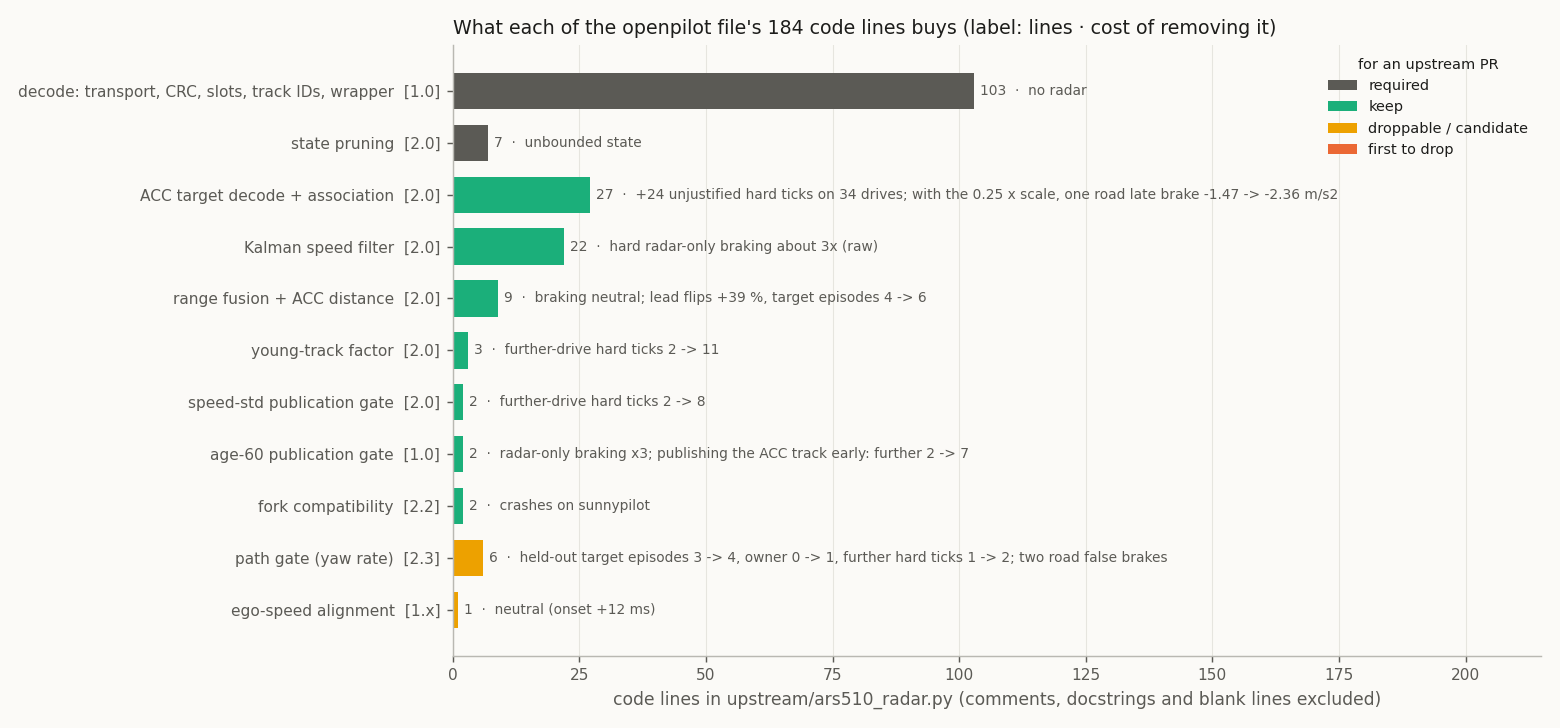
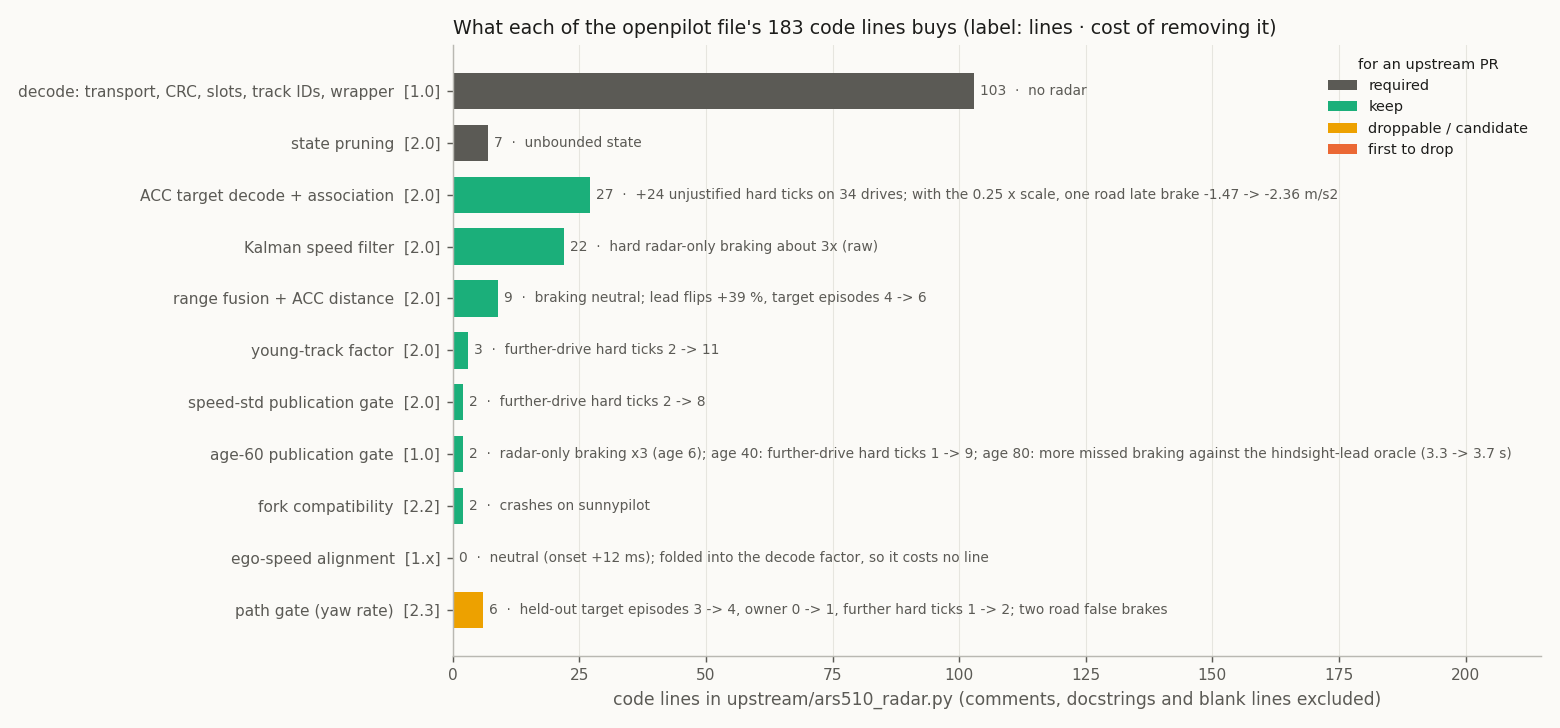
refactor: fold the 0.149/0.15 speed alignment into the decode factor (2.4.1) (#83)
The openpilot file decodes the object list's over-ground speed at 0.149 m/s
per code directly instead of 0.15 x VGROUND_SCALE: one constant and one
code line fewer (184 -> 183), same output up to float rounding (the fork
equality test now compares at 1e-9).

diff --git a/upstream/ars510_radar.py b/upstream/ars510_radar.py
@@ -22,7 +22,6 @@ SPEED_ADDR, YAW_ADDR, OBJECTS_ADDR, ACC_SPEED_ADDR, ACC_POS_ADDR = 0xB4, 0x24, 0
 RECORD_FRAMES, RECORD_LEN, SLOT_START, SLOT_LEN, SLOTS = 106, 742, 17, 36, 20
[1 lines of base64/hex data omitted]
 
-VGROUND_SCALE = 0.149 / 0.15  # slot over-ground speed aligned to 0xB4 ego speed
 EGO_MAX_AGE_S = 0.5
 PUBLISH_AGE = 60  # ~3.6 s: young tracks have unconverged range and speed
 RANGE_GAIN = 0.1  # velocity-aided range: halves the far-range walk
@@ -111,8 +110,9 @@ class Ars510Radar:
         continue
       age, lat = bits(s, 24, 7), bits(s, 44, 12) - 2048
       init_template = age == 1 and bits(s, 56, 7) == 0 and bits(s, 216, 6) == 0
+      # over-ground speed: 0.149 m/s per code against 0xB4 ego speed (DBC factor 0.15)
       objs.append(dict(tid=self.track_id(t, slot, age), age=age, d=(bits(s, 32, 12) - 160) / 16, y=lat * 0.015,
-                       vg=(bits(s, 64, 10) - 510.5) * 0.15 * VGROUND_SCALE, unc=bits(s, 240, 7),
+                       vg=(bits(s, 64, 10) - 510.5) * 0.149, unc=bits(s, 240, 7),
                        valid=age >= 1 and not init_template and abs(lat) < 2000))
     tracks = {o["tid"]: o for o in objs if o["valid"]}
     acc_tid = self.acc_match(t, tracks)

diff --git a/tests/test_upstream_candidate.py b/tests/test_upstream_candidate.py
@@ -76,7 +76,10 @@ def test_candidate_equals_its_fork_config_on_real_samples(candidate, sample):
     assert (a is None) == (b is None)
     if a is not None:
       records += 1
-      assert b == [(p["trackId"], p["dRel"], p["yRel"], p["vRel"]) for p in a["radarData"]["points"]]
+      # equal up to float rounding (the candidate folds the 0.149/0.15 speed alignment into one decode factor)
+      want = [(p["trackId"], p["dRel"], p["yRel"], p["vRel"]) for p in a["radarData"]["points"]]
+      assert [r[0] for r in b] == [r[0] for r in want]
+      assert [x for r in b for x in r[1:]] == pytest.approx([x for r in want for x in r[1:]], abs=1e-9)
   assert records > 300
 
 

diff --git a/docs/10_research_directions.md b/docs/10_research_directions.md
@@ -158,7 +158,7 @@ The closest relative in openpilot is the Tesla Model 3's Continental radar (`tes
 ## Towards an upstream (comma) interface
 
 The integration works on every fork without changing openpilot. For upstream there is a separate, single-file
-candidate: [`upstream/ars510_radar.py`](../upstream/ars510_radar.py) (224 lines, 184 of them code). It holds the reassembler, the slot
+candidate: [`upstream/ars510_radar.py`](../upstream/ars510_radar.py) (223 lines, 183 of them code). It holds the reassembler, the slot
 decode, track IDs, the ACC target association and the Kalman speed filter, in opendbc's style. Up to 2.1 it was the
 smallest version with the same driving as the full filter: parts were removed alone and together on 34 replay drives,
 and every hard brake was checked against the radar's raw range, the camera and the driver
@@ -200,7 +200,7 @@ upstream PR.
 | speed-std publication gate | 2 | 2.0 | further-drive hard ticks 2 -> 8 | keep |
 | age-60 publication gate | 2 | 1.0 | radar-only braking x3 (age 6); age 40: further-drive hard ticks 1 -> 9; age 80: more missed braking against the hindsight-lead oracle (3.3 -> 3.7 s) | keep |
 | range fusion (incl. ACC distance as the followed car's range) | 9 | 2.0 (ACC distance 2.1) | braking neutral; lead flips +39 %, target episodes 4 -> 6 | keep for lead stability; droppable at that cost |
-| ego-speed alignment x 0.149/0.15 | 1 | 1.x | neutral (onset +12 ms) | droppable |
+| ego-speed alignment (0.149 m/s per code instead of the DBC 0.15) | 0 | 1.x | neutral (onset +12 ms); folded into the decode factor, so it costs no line | keep (no line) |
 | state pruning | 7 | 2.0 | unbounded state | required |
 | path gate (yaw rate) | 6 | 2.3 (2.2 from 60 m) | held-out target episodes 3 -> 4, owner 0 -> 1, further hard ticks 1 -> 2; two road false brakes | candidate: keep, or move into radard as a lateral gate |
 | fork compatibility (CP_SP argument, points assigned as a list) | 2 | 2.2 | crashes on sunnypilot | keep (harmless upstream) |

diff --git a/docs/11_profiles_compared.md b/docs/11_profiles_compared.md
@@ -14,7 +14,7 @@ Numbers: [`profiles_vs_vision.json`](../data/analysis/summaries/profiles_vs_visi
 |---|---|---|---|
 | what it adds to the decode | nothing (validity, IDs, ego subtraction) | range fusion + one Kalman speed filter on the object list | the same filter, also fusing the radar's ACC target, plus a path gate |
 | filter settings | — | scalar process scale, robust update and readiness threshold | also tracker weights; [definitions and evidence](12_kalman_filter.md#the-model) |
-| code beyond the decode | ~60 (guard, relink; fork only) | +24 | the openpilot version is 184 code lines in all ([10](10_research_directions.md#parts-of-the-openpilot-file)) |
+| code beyond the decode | ~60 (guard, relink; fork only) | +24 | the openpilot version is 183 code lines in all ([10](10_research_directions.md#parts-of-the-openpilot-file)) |
 | hard radar-only braking ticks, 20 held-out routes | 93 | 48 | **30** |
 | braking only the radar asked for, per hour (driver on the gas) | 1.75 (0.66) | 0.88 (0.22) | **0.22 (0)** |
 | first braking request vs vision only, 167 driver brakes | −0.15 s | −0.03 s | −0.01 s |
@@ -160,7 +160,7 @@ What the radar adds, by profile:
 | Chrysler | 56 | pass-through |
 | GM | 71 | pass-through of the radar's targets |
 | Ford | 194 | clusters raw Delphi detections into tracks |
-| **ARS510 openpilot version** ([`upstream/ars510_radar.py`](../upstream/ars510_radar.py)) | 184 | `fused`, in one file: |
+| **ARS510 openpilot version** ([`upstream/ars510_radar.py`](../upstream/ars510_radar.py)) | 183 | `fused`, in one file: |
 | … record reassembly, CRC, slot decode, track IDs, publication | 84 | a 742-byte record from 106 CAN frames, 20 slots of bit fields |
 | … ACC target association | 18 | match the radar's own ACC target to one track |
 | … Kalman speed filter and range fusion | 24 | the filter itself |

diff --git a/docs/12_kalman_filter.md b/docs/12_kalman_filter.md
@@ -108,7 +108,7 @@ The two filters run in series, so all replay numbers already include their combi
   - publish from age 60 (~3.6 s): young tracks have unconverged range and speed ([02](02_object_list.md)). Age 40
     exposes young far false closings (further-drive hard ticks 1 → 9), and so does publishing the ACC target's track
     early; age 80 delays real braking (missed braking against the hindsight-lead oracle 3.3 → 3.7 s on 34 drives);
-  - multiply the object list's over-ground speed by 0.149/0.15, then subtract 0xB4 ego speed;
+  - read the object list's over-ground speed at 0.149 m/s per code (DBC 0.15; 0.149 matches 0xB4), then subtract 0xB4 ego speed;
   - publish no point without a fresh ego speed, because one NaN poisons radard's filter.
 - **Saturation guard (`raw` only):** velocity code 1023 (and 0) is an invalid sentinel that decays over ~6 records.
   `raw` withholds the track until the speed is back within 5 m/s (or 1 s), then continues under a new ID. Held-out
@@ -231,7 +231,7 @@ leaves hard braking unchanged). Counts are hard radar-only braking ticks (planne
 | the speed-std publication gate | 30 | 8 | 0 | needed |
 | the age-60 publication gate (age 6) | 31 | 12 | 0 (radar-only braking ×3) | needed |
 | range fusion | 27 | 0 | 0 | braking neutral; lead switches +39%, target episodes 4 → 6: kept for lead stability |
-| the ego-speed alignment (× 0.149/0.15) | 31 | 2 | 0 | neutral (onset +12 ms); one measured constant |
+| the ego-speed alignment (× 0.149/0.15) | 31 | 2 | 0 | neutral (onset +12 ms); one measured constant, folded into the decode factor (no line) |
 | the track-ID relink | 30 | 2 | 0 | identical in every measure: removed |
 | the saturation guard | identical | identical | identical | removed: the robust update absorbs the sentinel |
 

diff --git a/README.md b/README.md
@@ -84,7 +84,7 @@ matched to tracks, what each part is worth and the variants tested: [docs/12](do
 The code comes in two versions that drive identically:
 - **Fork build:** the `ars510/` package, installed by default. It is configurable, has the profiles below, and fills
   the extra point fields sunnypilot still uses.
-- **openpilot version:** [`upstream/ars510_radar.py`](upstream/ars510_radar.py), one file of 224 lines (184 code) in opendbc style; [docs/10](docs/10_research_directions.md#parts-of-the-openpilot-file) lists what each part costs and buys.
+- **openpilot version:** [`upstream/ars510_radar.py`](upstream/ars510_radar.py), one file of 223 lines (183 code) in opendbc style; [docs/10](docs/10_research_directions.md#parts-of-the-openpilot-file) lists what each part costs and buys.
   It is `fused` in one file: a test keeps it equal to `FUSED_CONFIG` point for point. The fork build can still add the
   radar's target summaries and the track-ID relink as options; neither improves the driving
   ([docs/12](docs/12_kalman_filter.md#what-the-summaries-do)).

diff --git a/docs/00_start_here.md b/docs/00_start_here.md
@@ -131,7 +131,7 @@ More: [11 Profiles compared](11_profiles_compared.md), [08](08_openpilot_integra
 | driver brakes already anticipated at ≤ −1 m/s² | `fused` 41.3 %, vision 40.1 % | `profiles_vs_vision.json` |
 | owner road drives with 2.1 (5.8 moving h, replayed) | 0 hard radar-only episodes; braking starts 0.4-1.0 s before vision | `road_v21.json` |
 | unnecessary / missed braking against a hindsight oracle | road drives (7.65 h): `fused` 5.4 / 7.2 s, vision 10.2 / 10.3 s; 34 replay drives (6.72 h): `fused` 7.1 / 3.0 s, vision 31.9 / 10.0 s | `oracle_reference.json` |
-| openpilot file | 184 code lines | `openpilot_file_parts.json` |
+| openpilot file | 183 code lines | `openpilot_file_parts.json` |
 
 ## How to read the evidence
 
